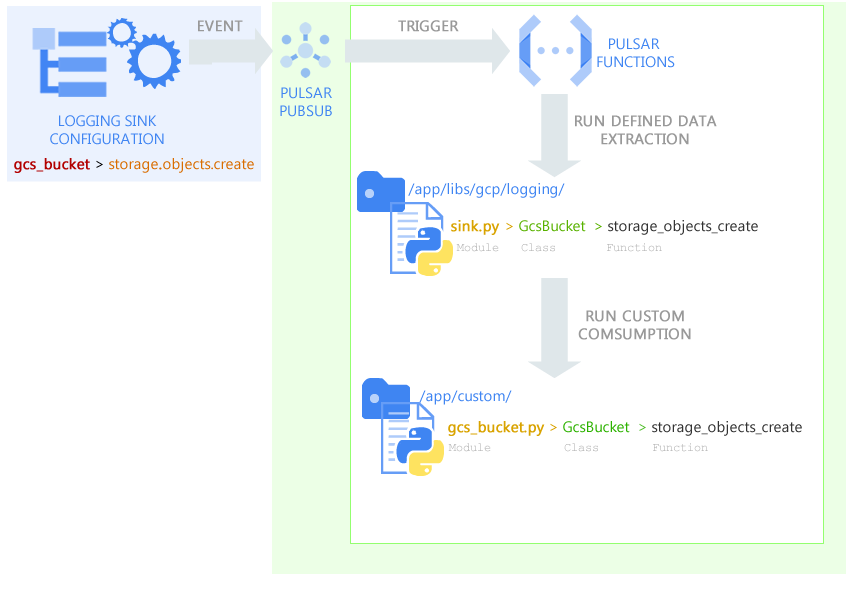
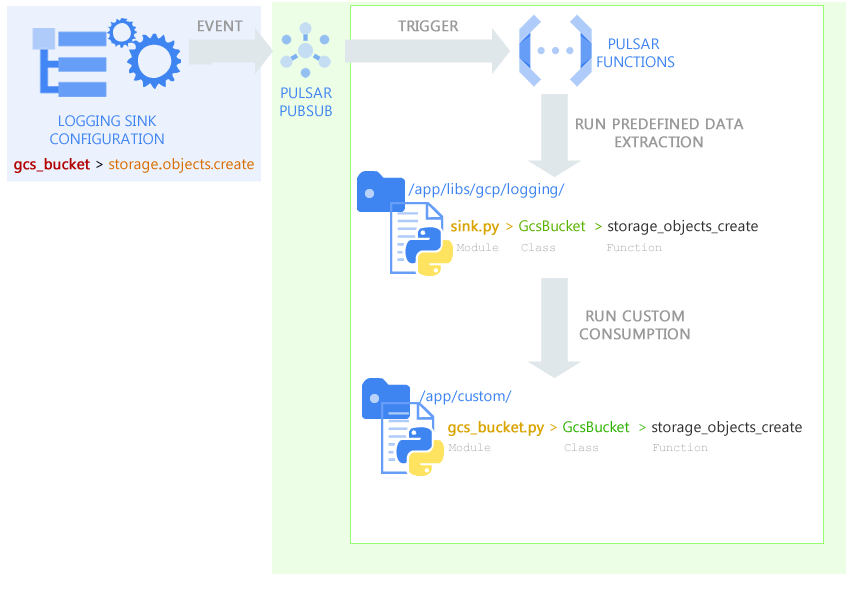
Update README and correct typos

Changed region(s): [[0.6729, 0.18, 0.8871, 0.27], [0.6729, 0.54, 0.8259, 0.57]]

diff --git a/app/custom/sample.py b/app/custom/sample.py
@@ -9,10 +9,11 @@ class Greeting(object):
         return "Hello {}".format(name)
 
     @staticmethod
-    def say(name):
-        return "Hello {}".format(name)
+    def say(message):
+        return "{}".format(message)
 
     @staticmethod
     def sleeper(sec):
         time.sleep(int(sec))
+        return "Process waited {} seconds.".format(sec)
 

diff --git a/README.md b/README.md
@@ -98,9 +98,23 @@ To configure SendGrid you need a corporate email address (pseudo@custom_domain.c
 You can activate the SendGrid service for your GCP account at this link: https://console.cloud.google.com/marketplace/details/sendgrid-app/sendgrid-email
 
   - [Follow instruction to Activate SendGrid add-on on GCP and obtain you API key](https://console.cloud.google.com/marketplace/details/sendgrid-app/sendgrid-email)
-  - Modify the "mail_from" and "default_mail_to" variable in the folder **"/secrets/pulsar_sendgrid.template_json"** file with your Sendgrid verified email
-  - Modify the "pulsar_sendgrid_key" variable in the file with your Sendgrid API key
+  - Modify the "default_to" and "from" variable in the folder **"/secrets/pulsar_sendgrid.template_json"** file with your Sendgrid verified email.
+      - The **"id"** represents the reference of the key;
+      - The **"key"** represents your Sendgrid key;
+      - The **"default_to"** represents the default email that must receive alerts in case of system failure;
+      - The **"from"** must be the email you use to register in Sendgrid.
+    
+  - Modify the "key" variable in the file with your Sendgrid API key
   - Rename your file pulsar_sendgrid.json
+
+```json
+{
+  "id": "pulsar_sendgrid",
+  "key": "<SENDGRID_KEY>",
+  "default_to": "<DEFAULT_ALERT_EMAIL_DESTINATION>",
+  "from": "<EMAIL_REGISTERED_IN_SENDGRID>"
+}
+```
 
 More about creating a SendGrid API key: https://docs.sendgrid.com/ui/account-and-settings/api-keys#creating-an-api-key
 
@@ -110,7 +124,7 @@ More about creating a SendGrid API key: https://docs.sendgrid.com/ui/account-and
 
 You can add you custom classes in the package folder **"/app/custom/"**, and can execute it from the scheduler call by indicating the path to your class with parameters.
 
-For example, if you have a module name "sample.py", with the class "Greeting" inside and you want to call the function "get(name):", 
+For example, if you have a module name **sample.py"**, with the class **"Greeting"** inside and you want to call the function **"get(name):"** below how you can do it: 
 
 ```python
 class Greeting(object):
@@ -130,20 +144,21 @@ You have to call it from a Cloud Scheduler liked to the Pulsar topic in this man
 	"alert_level": "1",
 	"owners": "tiyab@gcpbees.com",
 	"parameters": {
-		"run": "custom.sample.Greeting.say:Serhat"
+		"run": "custom.sample.Greeting.get:Serhat"
 	}
 }
 ```
 All json key are mandatory:
 
-- The name is that of your work, which is used to identify it among other things in notifications and analyzes
-- The description of your job
-- For alert_level you have 3 ones
+- The **"name"** is that of your job, which is used to identify it among other jobs in notifications and analyzes
+- The **"description"** of your job
+- For **"alert_level"** you have 3 ones
   - Level 0, send alerts only on failure
   - Level 1, send alerts on failure or job completion
   - Level 2, send alerts on every state of the job task
-- With "owners" key, you can indicate people you want to notify by email, separate email with pipe (gjuliette@pular.com|droman@pulsar.com)
-- Parameters allow you to indicate which function to run, you can do it by providing your function to "run" path: package.module.class.function:Param1,Param2
+- With **"owners"** key, you can indicate people you want to notify by email, separate email with pipe (gjuliette@pular.com|droman@pulsar.com)
+- **"Parameters"** allow you to indicate which function to run:
+  - you can do it by providing your function to "run" path in this way: package.module.class.function:Param1,Param2
 
 ### 3.1 - Pass executed function result to another pubsub
 
@@ -159,8 +174,8 @@ class Greeting(object):
         return "Hello {}".format(name)
 
     @staticmethod
-    def say(name):
-        return "Hello {}".format(name)
+    def say(message):
+        return "{}".format(message)
 ```
 
 This definition below from Cloud Scheduler allows to run the first function and pass the result to the second one:
@@ -173,14 +188,14 @@ This definition below from Cloud Scheduler allows to run the first function and 
   "owners": "tiyab@gcpbees.com",
   "parameters": {
     "run": "custom.sample.Greeting.get:Pulsar",
-    "response_to": "gcpbees-test.pulsar-topic@custom.sample.Greeting.get: Forwarded {}"
+    "response_to": "gcpbees-test.pulsar-topic@custom.sample.Greeting.say:Forwarded {}"
   }
 }
 ```
-The response_to key allow to activate this response forwarding functionalities:
+The **"response_to"** key allow to activate this response forwarding functionalities:
 
-- by indicating the PROJECT_ID.TOPIC_ID:{} the response will by send to a topic ({} will be replace with your data)
-- if the topic is a pulsar one, you can indicate the function you want to target
+- by indicating the project id and the topic in this way: **"PROJECT_ID.TOPIC_ID:{}"**. The response will by send to a topic ({} will be replace with your data)
+- if the topic is a pulsar one, you can indicate the function you want to target by adding **"@package.module.class.function:{}"**.
 
 You must favor responses in JSON in terms of data returned by your functions.
 
@@ -280,16 +295,36 @@ This reflection system allows you to quickly create and extend event-based funct
 
 ## IV - Deploy your app
 
-The shell script for Pulsar deployment in the "scripts" folder allow to deploy the your app by using Google Cloud CLI. 
+### 4.1 - Deployment with native GCP CLI (stable)
+
+The shell scripts for Pulsar deployment in the "scripts" folder allow to deploy the your app by using Google Cloud CLI. 
 
 - 1 - Install Google Cloud CLI from this link: https://cloud.google.com/sdk/docs/install 
-- 2 - Create a service account with your application permissions scope in GCP (Step described above)
-- 3 - The deployment command below will guide you through the questions/responses process (Y/N) in order to configure or not services. For the first deployment, you have to create items/configure all services, but for update the script allows you to skip some parts of the deployment. 
+- 2 - Create a deployment service/user account with permissions for GCP services listed above.
+- 3 - Open the folder "/scripts/" from you command line
+- 4 - The deployment command below will guide you through the questions/responses process (Y/N) in order to configure or not services. For the first deployment, you have to create items/configure all services, but for update the script allows you to skip some parts of the deployment. 
 You must always accept GCS files redeployment in order to do cloud function redeployment
 ```shell
-./deploy.sh "APP-NAME"  "PROJECT-ID"  "REGION"  "EXISTING-SERVICE-ACCOUNT-EMAIL"
+$./deploy.sh "APP-NAME"  "PROJECT-ID"  "REGION"  "EXISTING-SERVICE-ACCOUNT-EMAIL"
 ```
-- 4 - Removal command: 
+- 5 - Removal command: you can remove specific app by running command below
 ```shell
-./remove.sh "APP-NAME"  "PROJECT-ID"  "REGION"
+$./remove.sh "APP-NAME"  "PROJECT-ID"  "REGION"
+```
+
+### 4.2 - Deployment with terraform (ongoing - not stable yet)
+
+The "terraform" folder contains the terraform script for deployment.
+More about terraform: https://learn.hashicorp.com/tutorials/terraform/install-cli?in=terraform/gcp-get-started
+
+- 1.a - (Only for local tests) Execute the command below to create default credential
+```shell
+$ gcloud auth application-default login --no-browser
+```
+- 1.b - Instead of using default credential, it's recommended to create a dedicated service account to terraform
+- 2 Deploy
+```shell
+$ terraform init 
+$ terraform plan -var="PULSAR_NAME=[APP-NAME]" -var="PROJECT_ID=[PROJECT-ID]" -var="PULSAR_REGION=[REGION]" -var="SERVICE_ACCOUNT_EMAIL=[SERVICE-ACCOUNT-EMAIL]" -out=tf.plan
+$ terraform apply "tf.plan"
 ```

diff --git a/scripts/README.md b/scripts/README.md
@@ -1,6 +1,14 @@
-This is a shell script for Pulsar deployment by using Google Cloud CLI. 
+The shell scripts for Pulsar deployment in the "scripts" folder allow to deploy the your app by using Google Cloud CLI. 
 
 - 1 - Install Google Cloud CLI from this link: https://cloud.google.com/sdk/docs/install 
-- 2 - Create a service account with your application permissions scope in GCP
-- 3 - Deployment command: ./deploy.sh "APP-NAME"  "PROJECT-ID"  "REGION"  "EXISTING-SERVICE-ACCOUNT-EMAIL"
-- 4 - Removal command: ./remove.sh "APP-NAME"  "PROJECT-ID"  "REGION"
+- 2 - Create a deployment service/user account with permissions for GCP services listed above.
+- 3 - Open the folder "/scripts/" from you command line
+- 4 - The deployment command below will guide you through the questions/responses process (Y/N) in order to configure or not services. For the first deployment, you have to create items/configure all services, but for update the script allows you to skip some parts of the deployment. 
+You must always accept GCS files redeployment in order to do cloud function redeployment
+```shell
+./deploy.sh "APP-NAME"  "PROJECT-ID"  "REGION"  "EXISTING-SERVICE-ACCOUNT-EMAIL"
+```
+- 5 - Removal command: you can remove specific app by running command below
+```shell
+./remove.sh "APP-NAME"  "PROJECT-ID"  "REGION"
+```
